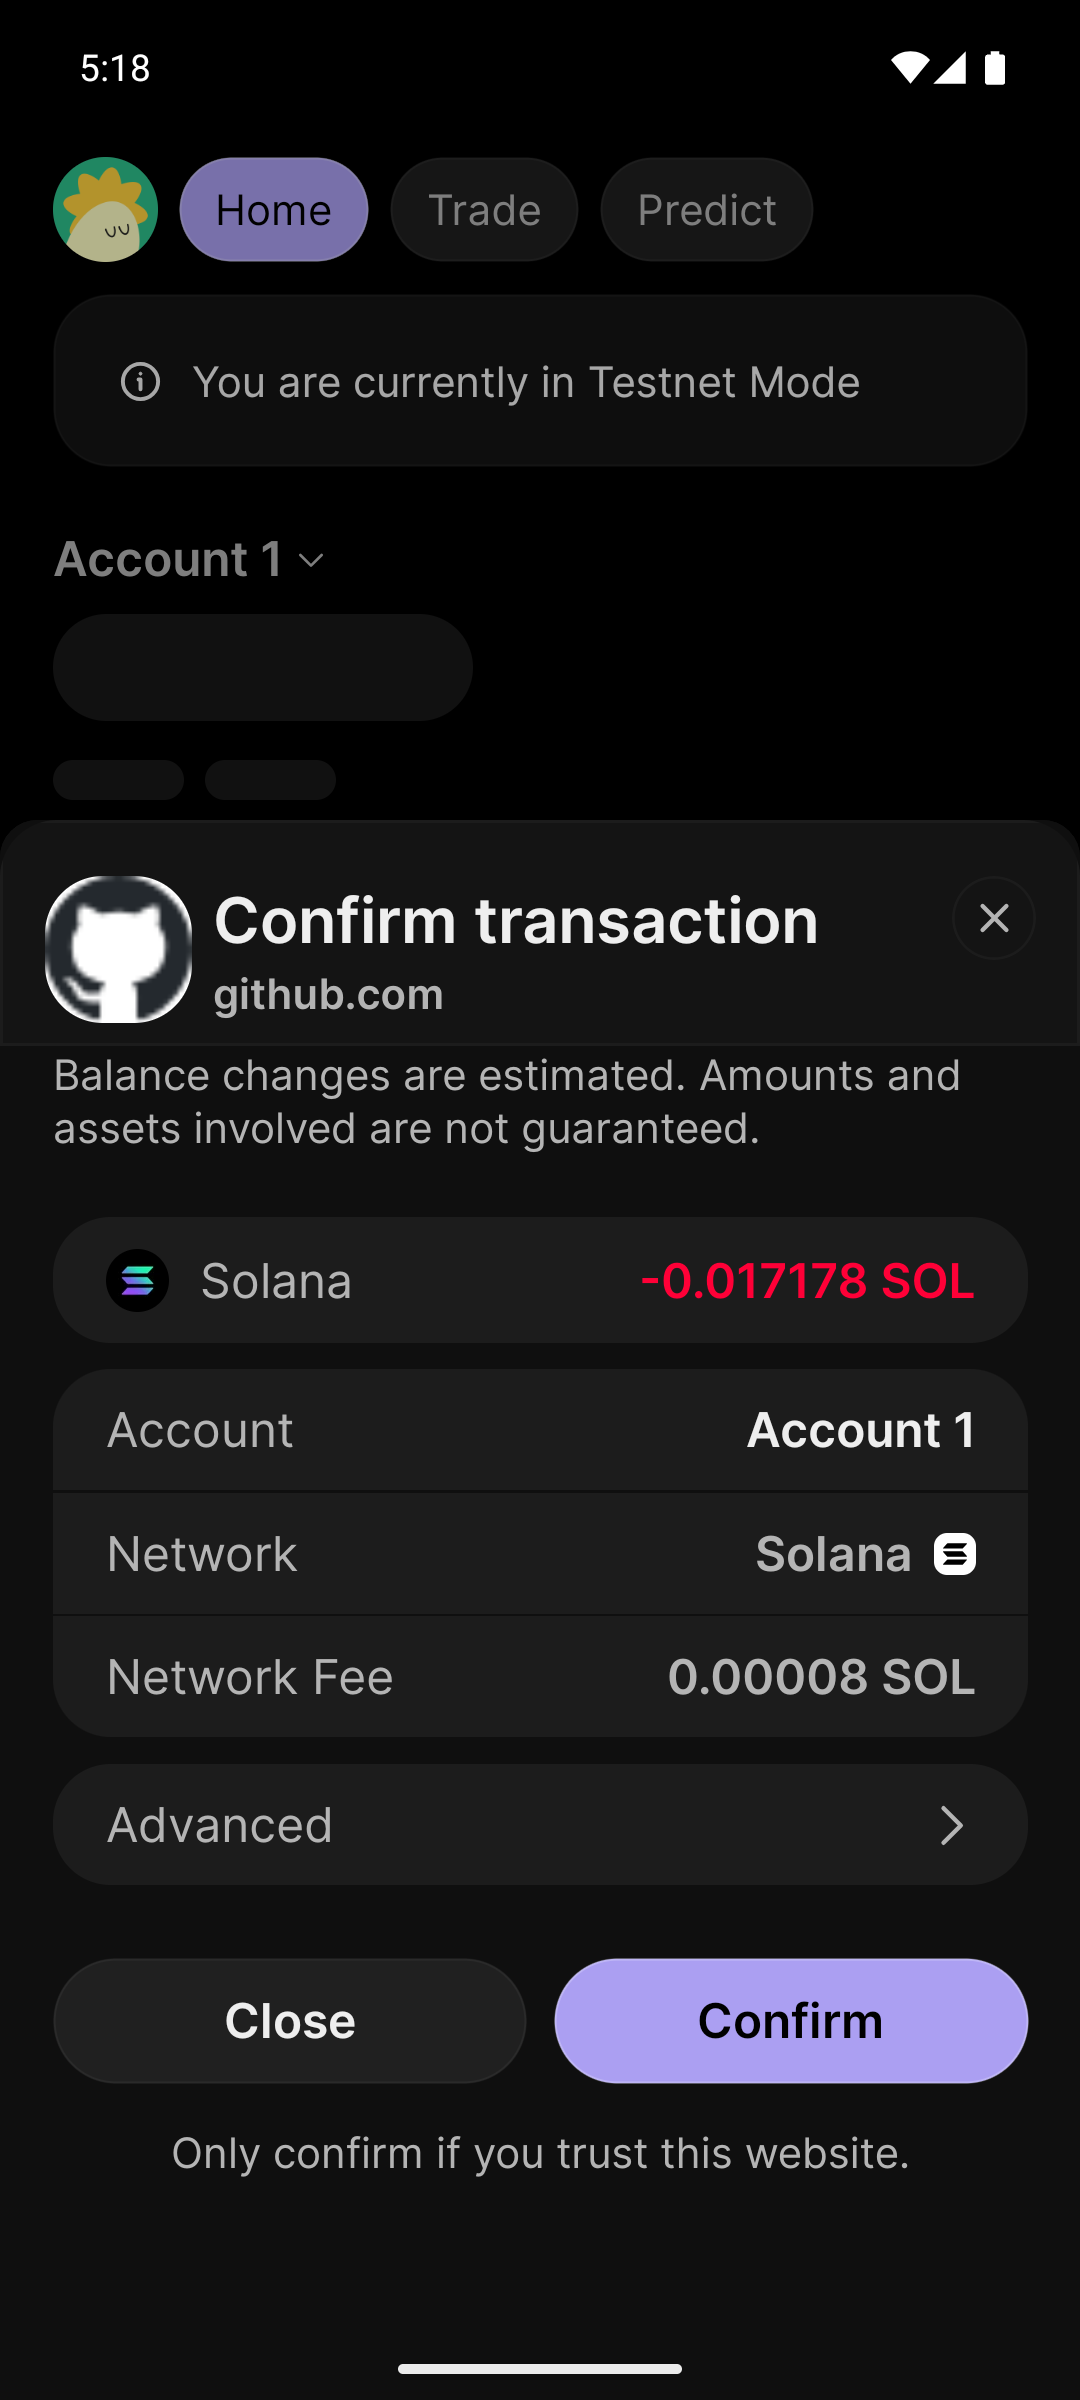
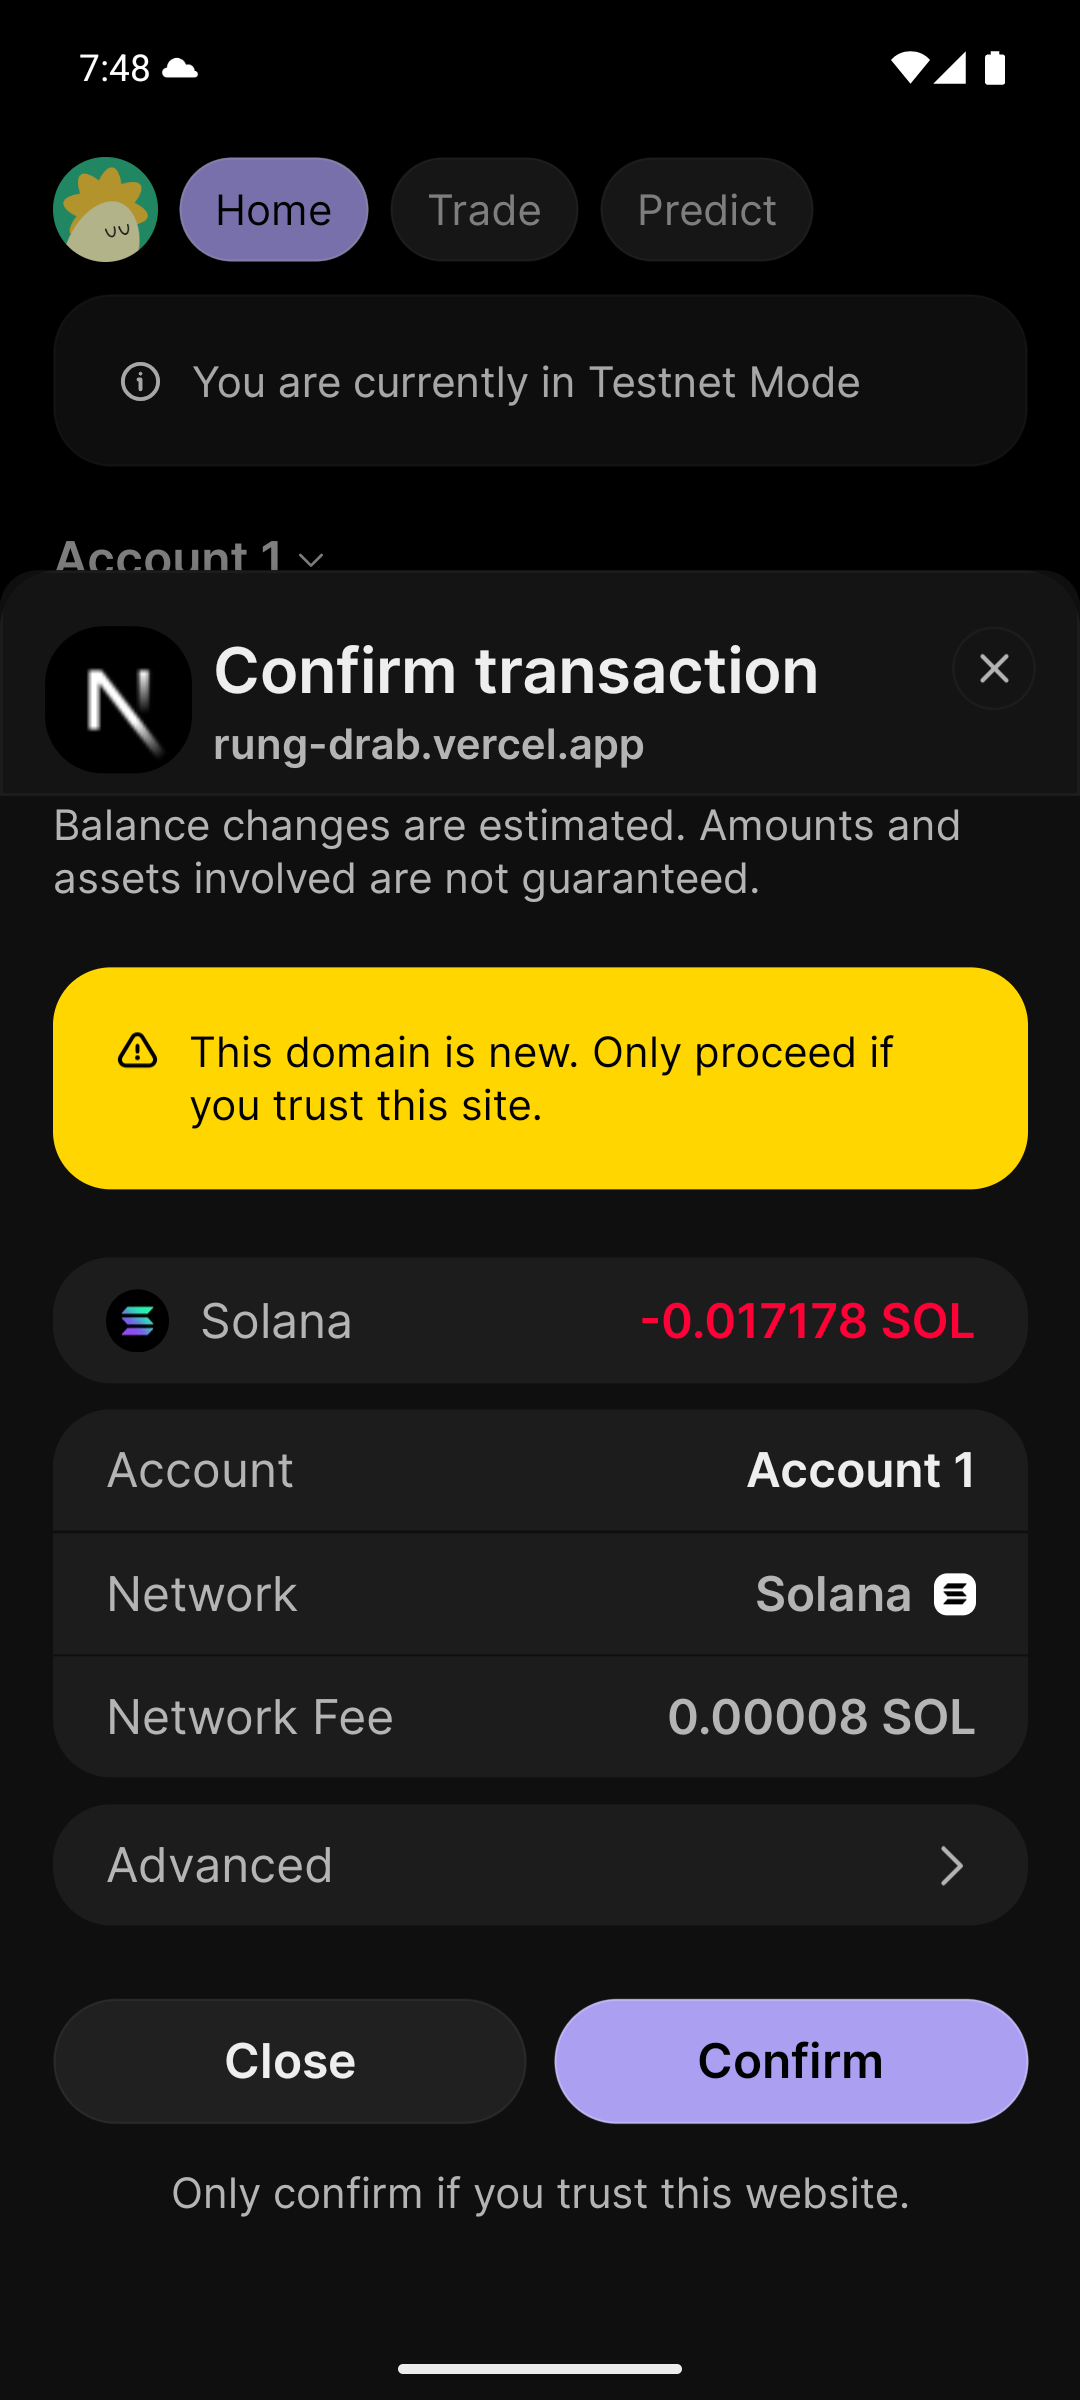
App: verified with Phantom and Solflare on devnet; wallet notes
Both wallets completed buys on an Android 15 emulator on devnet through
signTransactions, with the app sending the signed order itself.

Phantom: prepends SetComputeUnitPrice(375000) and
SetComputeUnitLimit(200000) to the order (fee 80,000 lamports), returns
to the app on its own, filled on the first rung twice in a row. It shows
its Connect sheet before every buy because it declines the cached token
for an app whose identity is not verified.

Solflare: appends SetComputeUnitLimit(200000) and
SetComputeUnitPrice(100000) (fee 25,000 lamports); one sheet per buy
after the first connect. A run with the price pushed above the cap ended
not bought with the refund, and Retry with Launch mode filled with one
new approval.

The first buy after connecting now waits until the app is in the
foreground before reading the chain. app/README.md has the per-wallet
notes. An approval that takes longer than about a minute fails with
"Approval took too long" and sends nothing.

diff --git a/app/App.tsx b/app/App.tsx
@@ -9,7 +9,7 @@ import { SafeAreaProvider } from "react-native-safe-area-context";
 
 import { PublicKey } from "../client/src";
 
-import { BuyError, openBuy } from "./src/flow/buy";
+import { BuyError, inForeground, openBuy } from "./src/flow/buy";
 import { Receipt } from "./src/flow/history";
 import { Running, findUnfinished } from "./src/flow/ladder";
 import { loadMarket } from "./src/flow/market";
@@ -59,7 +59,14 @@ function Main() {
       // Network work happens while Rung is in front (its requests failed from
       // the background); the wallet then opens once, to authorize and sign.
       // Without any cached account the first buy connects first.
-      const user: PublicKey = selectedAccount?.publicKey ?? (await connect()).publicKey;
+      let user: PublicKey;
+      if (selectedAccount) user = selectedAccount.publicKey;
+      else {
+        user = (await connect()).publicKey;
+        // The wallet answers before Rung is in front again; reading the chain
+        // right away failed with "Network request failed" (seen with Phantom).
+        await inForeground();
+      }
       const plan = await getPlan();
       const opened = await openBuy(plan, user, signOpen);
       setScreen({ name: "ladder", running: opened });

diff --git a/app/src/flow/buy.ts b/app/src/flow/buy.ts
@@ -88,7 +88,7 @@ function describeSigned(tx: VersionedTransaction, builtCount: number): string {
 const sleep = (ms: number) => new Promise((r) => setTimeout(r, ms));
 
 /** Resolves once Rung is in front again (requests from the background failed). */
-function inForeground(): Promise<void> {
+export function inForeground(): Promise<void> {
   if (AppState.currentState === "active") return Promise.resolve();
   return new Promise((resolve) => {
     const sub = AppState.addEventListener("change", (s) => {

diff --git a/app/README.md b/app/README.md
@@ -8,7 +8,8 @@ v3.0.0 (commit `04cdd54`).
 
 Screens (`src/screens/`, one file each): buy, ladder (live), receipt, not
 bought (with retry), history. Logic (`src/flow/`): market and quote, plan and
-fees, opening the order (one `signAndSendTransactions`), running the ladder
+fees, opening the order (the wallet signs with `signTransactions`, the app
+sends; see "Wallet notes" below), running the ladder
 (`client`'s `runLadder`), resume after a restart, history. `App.tsx` is a
 small state machine that picks the screen.
 
@@ -35,7 +36,8 @@ small state machine that picks the screen.
 - `App.tsx`: screen state machine. Imports `./src/polyfills` first.
 - `src/polyfills.ts`: `react-native-get-random-values` and a global `Buffer`.
 - `src/utils/useAuthorization.tsx`, `src/utils/useMobileWallet.tsx`: MWA
-  authorize / deauthorize / `signAndSendTransactions`, adapted from the template.
+  authorize / deauthorize / `signTransactions` (fallback
+  `signAndSendTransactions`), adapted from the template.
 - `src/flow/`: `market.ts`, `plan.ts`, `buy.ts`, `ladder.ts`, `session.ts`,
   `history.ts`, `format.ts`, `connection.ts`.
 - `src/screens/`: `BuyScreen`, `LadderScreen`, `ReceiptScreen`,
@@ -117,7 +119,68 @@ new order opens. About 4.5% gives "not bought" in Tight mode; about 1.5% makes
 the first rung slip and the second fill. Small devnet curves run out of tokens
 quickly (the curve completes and every rung fails with pump error 6005).
 
-## Known issues
+## Known issues / wallet notes
+
+Observed on the `rung-play35` emulator (Android 15 image) on 2026-11-23, devnet,
+Tight mode, 0.01 SOL, token `27wsVth5k9sUpxR9JGQoWbi1EDP4yRU7twNGW6mhqRSK`.
+Only these two wallet installs were tried; other versions may behave differently.
+
+**Why sign-then-send.** The wallet only signs (MWA `signTransactions`) and the
+app sends the signed bytes itself once it is back in front (`src/flow/buy.ts`).
+In earlier runs Phantom's own `signAndSendTransactions` never reached devnet,
+and Solflare kept Rung in the background (JS paused) until its success screen
+was closed, so orders expired before any rung was tried. Both wallets report
+`features: ["solana:signTransactions"]`, so the `signAndSendTransactions`
+fallback was not used in these runs.
+
+| | Phantom (`app.phantom`, Testnet Mode, Solana Devnet) | Solflare (`com.solflare.mobile`) |
+|---|---|---|
+| Wallet sheets, first buy (not connected) | 3: Connect, Connect again, Confirm (two Android app choosers) | 2: Connect, then the transaction sheet (two choosers) |
+| Wallet sheets, later buys | 2: Connect + Confirm, every time | 1: the transaction sheet |
+| Cached auth token | refused: `authorize(auth_token)` answers `-1 authorization request failed`; Phantom's log says `Declining sol_mwa_reauthorize: dApp identity is not verified (mwaIdentityVerified !== true)` and revokes the record, so the app authorizes again (a new Connect sheet) | accepted silently |
+| Identity warning | red "This app's identity could not be verified. It may be impersonating another app." on Connect; yellow "This domain is new" on Confirm | "Unknown site ... Only sign transactions on sites you trust"; the "I trust this site" switch must be turned on for every buy, then "slide to approve" |
+| Approval sheet shows | -0.017178 SOL, Network "Solana", Network Fee 0.00008 SOL ([screenshot](../docs/shots/wallet-phantom-approval.png)) | -0.02 SOL (with a USD value), Network fee 0.000025 SOL |
+| Instructions the wallet added | `SetComputeUnitPrice(375000)` + `SetComputeUnitLimit(200000)` put **before** `open_order`; no Lighthouse | `SetComputeUnitLimit(200000)` + `SetComputeUnitPrice(100000)` put **after** `open_order`; no Lighthouse |
+| Fee of the open (on chain) | 80,000 lamports, v0, fee payer = user | 25,000 lamports, v0, fee payer = user |
+| Back to Rung | automatic after Confirm | automatic after the slide |
+| Two buys back to back | both filled; Phantom did not crash | both filled |
+
+The app's fee text ("+ approval fee set by your wallet") is there because the
+wallet, not Rung, picks the compute-unit price: 0.00008 SOL with Phantom,
+0.000025 SOL with Solflare for the same transaction.
+
+Run results (devnet signatures):
+
[2 lines of base64/hex data omitted]
+  ([receipt](../docs/shots/app-10-receipt-phantom.png)).
[3 lines of base64/hex data omitted]
+- Solflare with a +4.5% price push (TEST AID) right after the open
[1 lines of base64/hex data omitted]
+  tries 1%, 2%, 3% failed with 6042, refund sent, screen "Price went above your
+  cap. Not bought. Your SOL is back." (price +4.43%). "Retry with Launch mode"
+  opened a new single-approval order
[1 lines of base64/hex data omitted]
+  that filled on try 10%.
+
+Problems seen:
+
+- **Phantom asks to Connect on every buy** (see the table). The cause in
+  Phantom's log is the unverified app identity, not the token. Verifying it
+  presumably needs Digital Asset Links between `rung-drab.vercel.app` and this
+  Android app's signing certificate; not tried.
+- **"Approval took too long" (`Blockhash not found`)**: the blockhash is read
+  before the wallet opens, and a signed-only transaction cannot be refreshed by
+  the wallet. When chooser + Connect + reading the sheet took over about a
+  minute, the send failed simulation with `Blockhash not found` (once with
+  Phantom, once with Solflare). The five buys approved within about 15 to 20
+  seconds of tapping Buy all landed. Nothing is sent in that case; the user taps Buy again.
+- **First buy, "Network request failed"**: when no account was cached the buy
+  connected first and then read the chain while Rung was still in the
+  background (Phantom). `App.tsx` now waits for Rung to be in front after
+  connecting.
 
 - The public devnet RPC (`api.devnet.solana.com`) rate-limits per IP
   (`429 Connection rate limits exceeded`). web3.js retries with backoff; the
